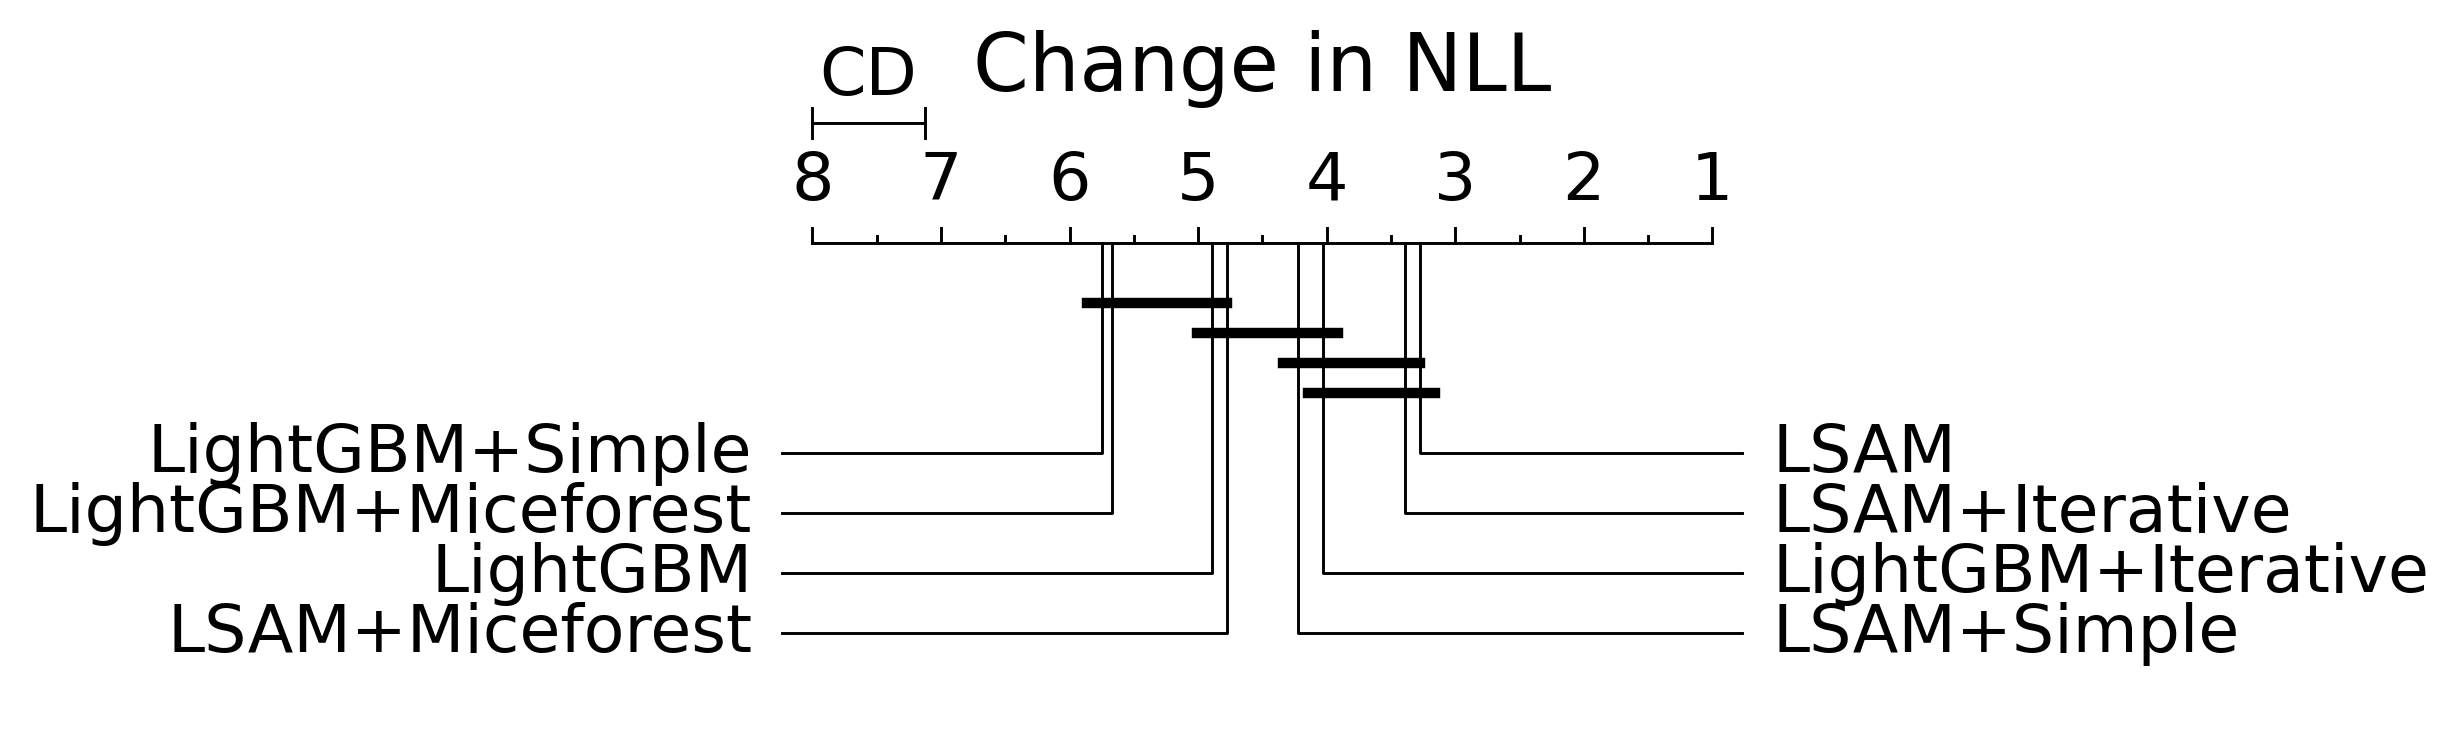
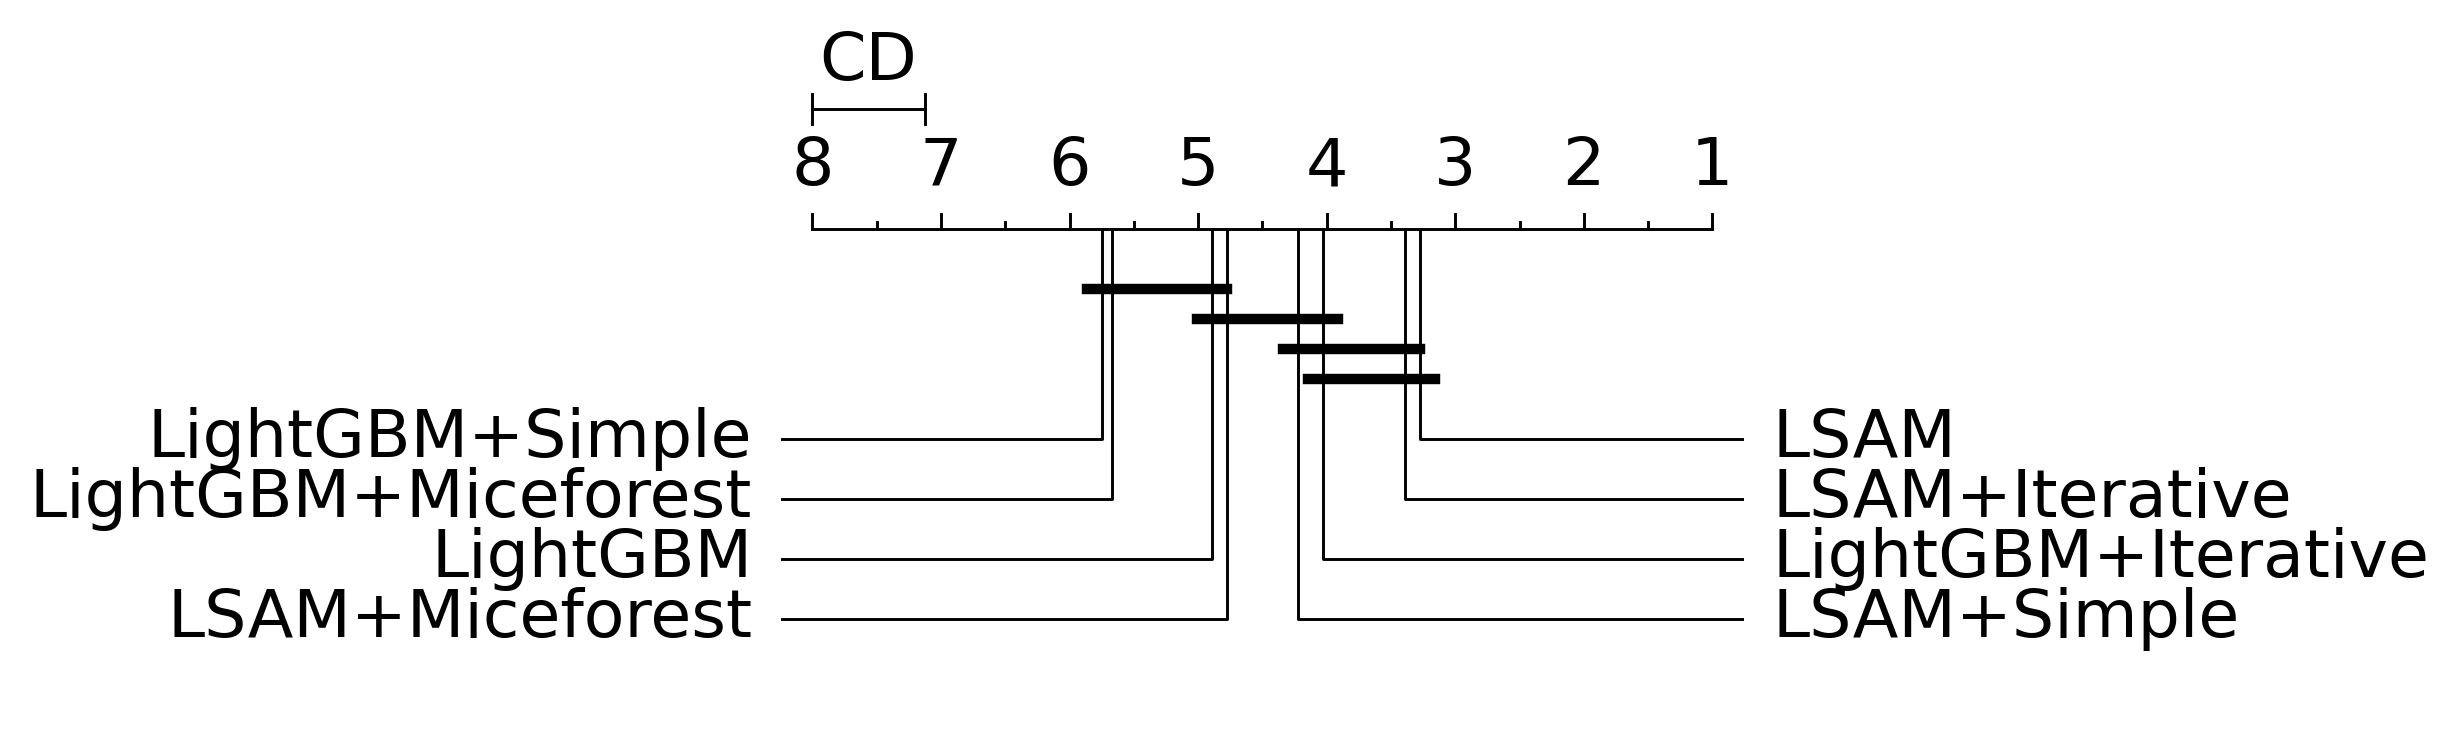
diagram formatting

diff --git a/cd-diagram/orange.py b/cd-diagram/orange.py
@@ -101,7 +101,7 @@ def draw_cd_diagram(df_perf, title="Accuracy", labels=True, savename=None):
     p_values, average_ranks, max_nb_datasets = wilcoxon_holm(alpha=0.05, df_perf=df_perf)
     cd = Orange.evaluation.compute_CD(average_ranks.values, len(df_perf), alpha="0.05", test="nemenyi") #tested on 30 datasets
     Orange.evaluation.graph_ranks(average_ranks.values, average_ranks.index, cd=cd, width=4, textspace=0.5, reverse=True)
-    plt.title(title, y=0.9, x=0.5)
+    # plt.title(title, y=0.9, x=0.5)
     if savename is not None:
         plt.savefig(savename,bbox_inches='tight', dpi=300)
     else:
